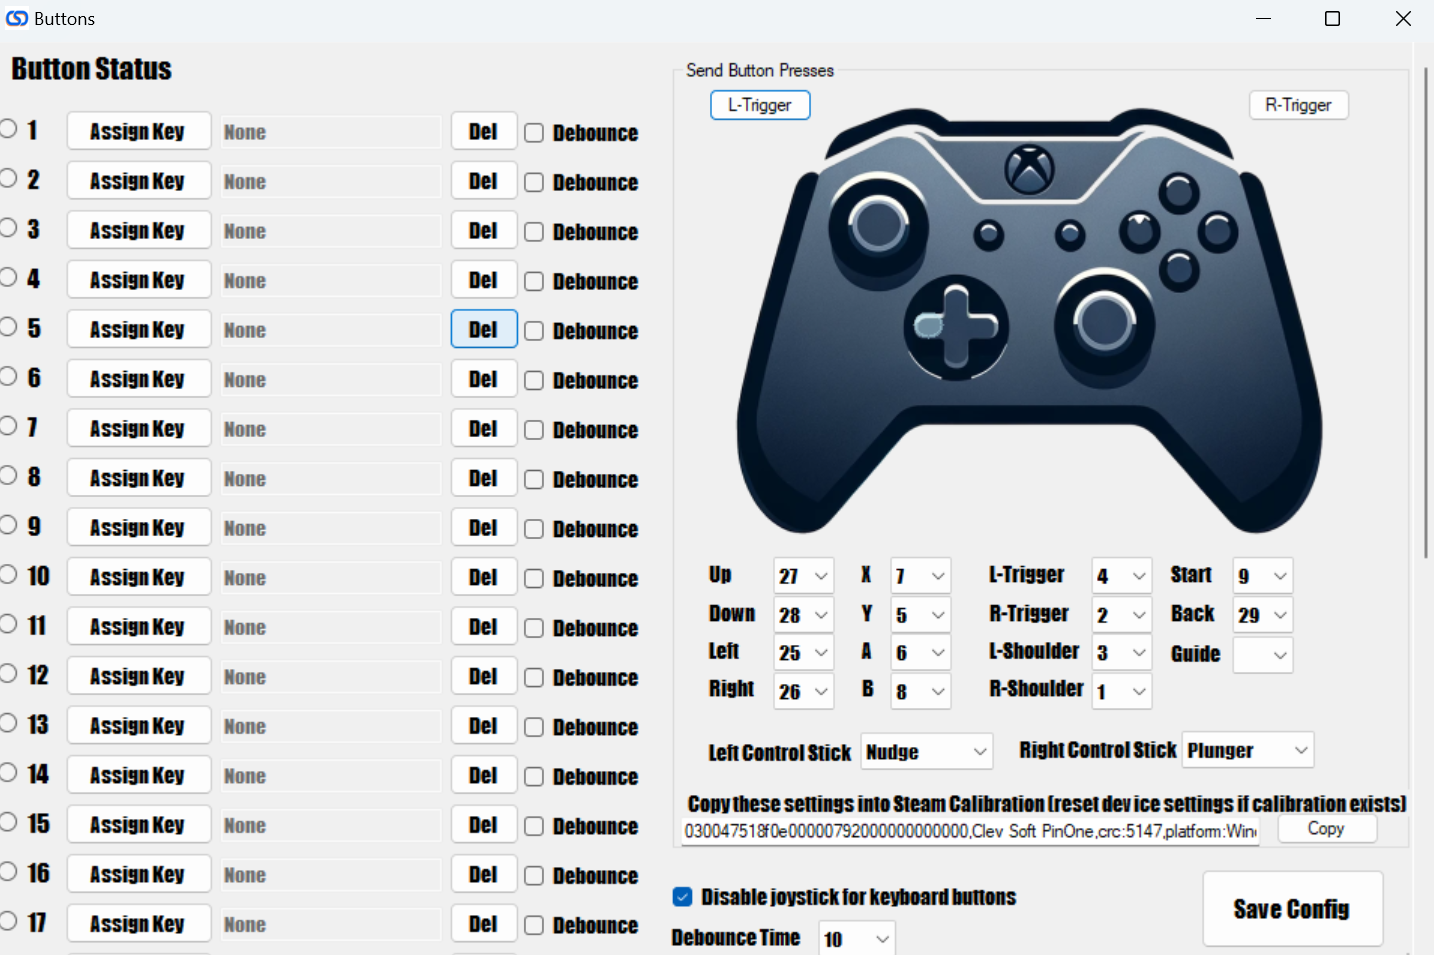
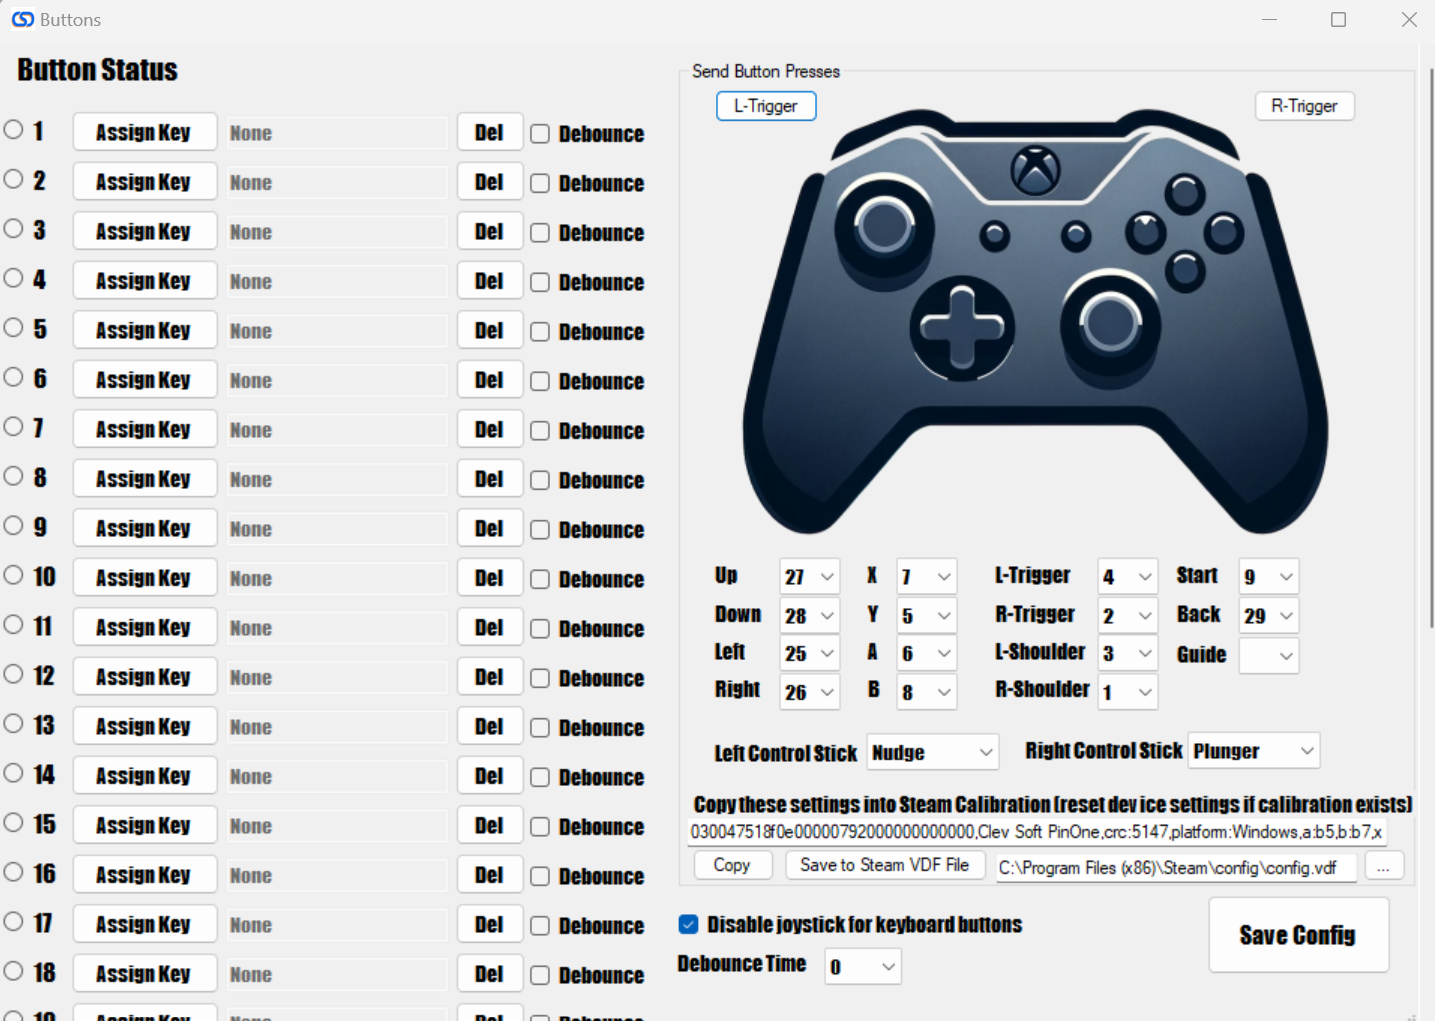
added new steam calibration process

diff --git a/docs/PinOne/steam-calibration.md b/docs/PinOne/steam-calibration.md
@@ -4,18 +4,19 @@ sidebar_position: 1.2
 
 # Steam Calibration
 
-To use the PinOne controller with Steam, all you need to do is set it up as a generic controller and paste the configuration into the Steam calibration screen. To do this, follow these steps:
+To use the PinOne controller with Steam, all you need to do is create a Steam controller mapping and click the save button to update your Steam VDF file or set it up as a generic controller and paste the configuration into the Steam calibration screen. To do this, follow these steps:
 
 ## Create your Steam Game controller configuration using the PinOne Configuration tool Input screen:
 
 1. Download the config tool from [here](https://github.com/philipellisis/virtual-pinball-board-configurator/releases/latest/download/CSDControllerTool.exe)
 2. Connect to the PinOne board and navigate to the "Input" screen
 3. Use the dropdowns to assign the correct button to the XBox controller shown on the page. You can also click on the appropriate button on the controller and push the button you want to assign to it as well
-4. Once you have setup the controller the way you like, copy the settings shown below the controller
+4. Once you have setup the controller the way you like, you can click the save button to save the controller configuration into Steam. At this point you are done and can start Steam and the PinOne should be recognized. If it isn't there ready to test, then you likely need to exit Steam and click the button to save the file again.
+5. If you would prefer to manually update the calibration in Steam, you can copy the configuration to use inside the Steam calibration menu (shown below)
 
 ![image](./img/steam5.png)
 
-## Configure and calibrate the controller in steam
+## Configure and calibrate the controller in Steam (currently not working due to a bug in Steam)
 
 1. Go to Steam settings:
 
@@ -33,19 +34,19 @@ To use the PinOne controller with Steam, all you need to do is set it up as a ge
 
 :::note
 
-Recently, I have gotten reports of a bug in the steam controller calibration that does not allow the "paste from clipboard" option to work. In order to bypass this bug, you can manually adjust the "config.vdf" file found in "C:\Program Files (x86)\Steam\config" Instructions for this are in the next section below
+Recently, I have gotten reports of a bug in the Steam controller calibration that does not allow the "paste from clipboard" option to work. In order to bypass this bug, you can manually adjust the "config.vdf" file found in "C:\Program Files (x86)\Steam\config" Instructions for this are in the next section below
 
 :::
 
 ![image](./img/steam3.png)
 
-4. Once the configuration above is loaded into steam, you can set the controller as shown below and all the keys should work.
+4. Once the configuration above is loaded into Steam, you can set the controller as shown below and all the keys should work.
 
 ![image](./img/steam4.png)
 
 ## Manually update the controller configuration
 
-In case pasting the data into steam does not work, you can easily add the controller configuration to the steam config file. Simply open the config file "C:\Program Files (x86)\Steam\config\config.vdf" in any text editor and add the configuration in the "SDL_GamepadBind" section. Once you have added the configuration for the controller, it will look like the text below:
+In case pasting the data into Steam does not work, you can easily add the controller configuration to the Steam config file. Simply open the config file "C:\Program Files (x86)\Steam\config\config.vdf" in any text editor and add the configuration in the "SDL_GamepadBind" section. Once you have added the configuration for the controller, it will look like the text below:
 
 ```
 	"SDL_GamepadBind"		"03000000de280000ff11000001000000,Steam Virtual Gamepad,a:b0,b:b1,back:b6,dpdown:h0.4,dpleft:h0.8,dpright:h0.2,dpup:h0.1,leftshoulder:b4,leftstick:b8,lefttrigger:+a2,leftx:a0,lefty:a1,rightshoulder:b5,rightstick:b9,righttrigger:-a2,rightx:a3,righty:a4,start:b7,x:b2,y:b3,platform:Windows,
@@ -56,4 +57,4 @@ In case pasting the data into steam does not work, you can easily add the contro
 	{
 ```
 
-The line with the "Clev Soft PinOne" in it is the one you need to add.
+The line with the "Clev Soft PinOne" in it is the one you need to add. Make sure to check the quotes to ensure they are in the right place.

diff --git a/docs/PinOne/Configuring/inputs.md b/docs/PinOne/Configuring/inputs.md
@@ -8,7 +8,7 @@ sidebar_position: 4
 
 ## Steam calibration text
 
-Besides the obvious of being able to see button presses made in the PinOne board when in this screen, it also provides a way to generate a steam calibration file that can be used to directly map the buttons of the PinOne to a Steam controller. Just set the buttons the way you want them to work in steam and paste the text shown into steam during the calibration phase.
+Besides the obvious of being able to see button presses made in the PinOne board when in this screen, it also provides a way to generate a steam calibration file that can be used to directly map the buttons of the PinOne to a Steam controller. Just set the buttons the way you want them to work in steam and paste the text shown into steam during the calibration phase. Now you can also save the configuration directly to your Steam .vdf file so there is no need to do any calibration in steam at all!
 
 ## Send Keyboard Presses
 
